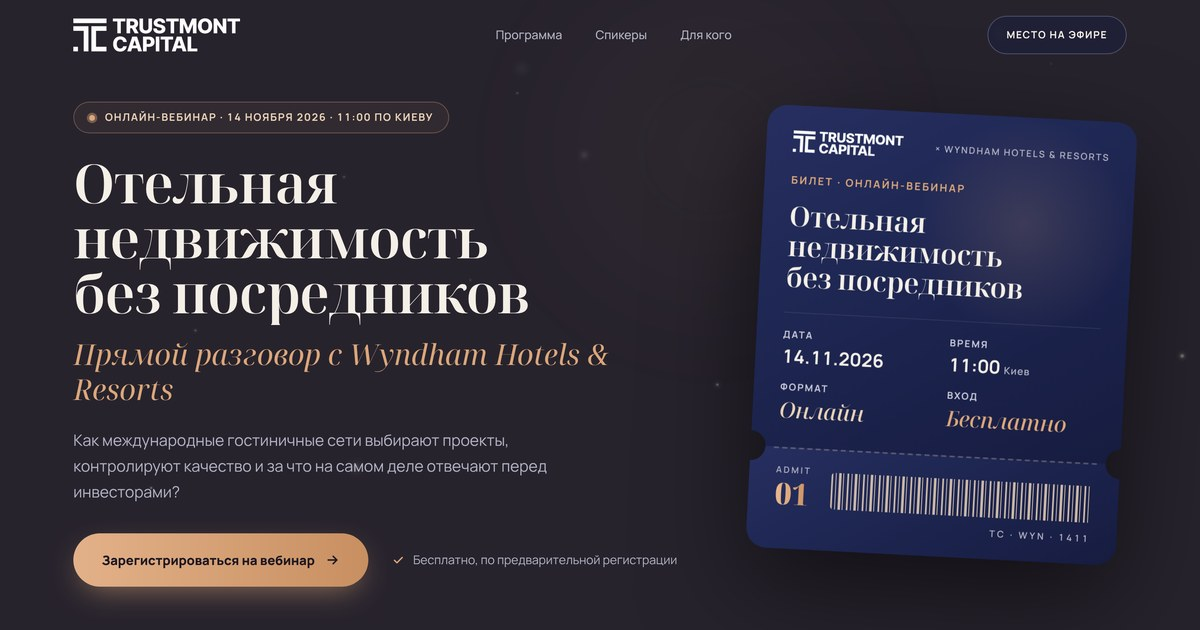
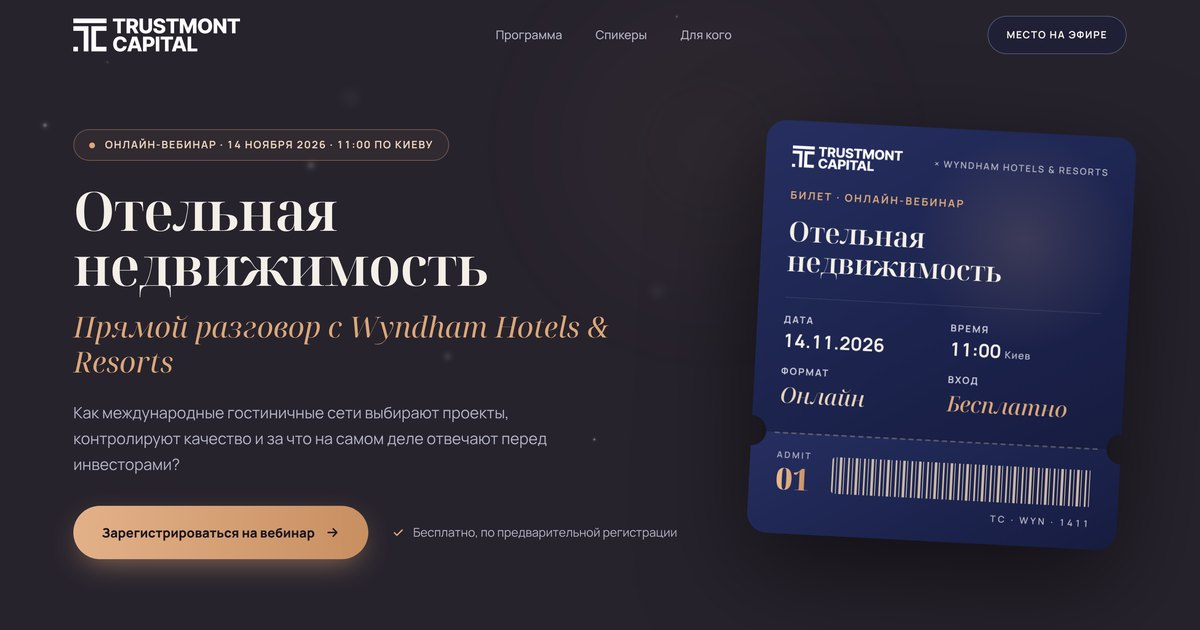
Drop 'без посредников' from the headline, ticket, CRM lead title and link preview image
Claude-Session: https://claude.ai/code/session_01V7UVysqTkuwp3RQHsRsado

diff --git a/index.html b/index.html
@@ -662,7 +662,7 @@ body{overflow-x:clip}
     <div class="wrap hero2-grid">
       <div class="hero2-copy">
         <p class="hero2-tag"><span class="dot" aria-hidden="true"></span>Онлайн-вебинар · 14 ноября 2026 · 11:00 по Киеву</p>
-        <h1 id="h1"><span class="w"><span style="--i:0">Отельная</span></span> <span class="w"><span style="--i:1">недвижимость</span></span> <br class="d-br"><span class="w"><span style="--i:2">без</span></span> <span class="w"><span style="--i:3">посредников</span></span></h1>
+        <h1 id="h1"><span class="w"><span style="--i:0">Отельная</span></span> <span class="w"><span style="--i:1">недвижимость</span></span></h1>
         <p class="hero2-sub">Прямой разговор с Wyndham Hotels &amp; Resorts</p>
         <p class="hero2-lead">Как международные гостиничные сети выбирают проекты, контролируют качество и за что на самом деле отвечают перед инвесторами?</p>
         <div class="hero2-cta">
@@ -679,7 +679,7 @@ body{overflow-x:clip}
               <span class="tk-x">× Wyndham Hotels &amp; Resorts</span>
             </div>
             <p class="tk-kind">Билет · Онлайн-вебинар</p>
-            <p class="tk-title">Отельная недвижимость без&nbsp;посредников</p>
+            <p class="tk-title">Отельная недвижимость</p>
             <dl class="tk-grid">
               <div><dt>Дата</dt><dd>14.11.2026</dd></div>
               <div><dt>Время</dt><dd>11:00 <small>Киев</small></dd></div>

diff --git a/server/lead.php b/server/lead.php
@@ -80,7 +80,7 @@ if (isset($res['bordee']) && $ok($res['bordee'])) {
 /* 2. CRM (Uspacy lead processor) */
 $crm_url = $cfg['crm_url'] ?? 'https://rubicon.tips/uspacy/customers/pro_part_real_estate/leads_processor/leads_processor.php';
 $res['crm'] = post_json($crm_url, array_merge([
-  'title'      => '[Webinar] Отельная недвижимость без посредников: ' . $name,
+  'title'      => '[Webinar] Отельная недвижимость: ' . $name,
   'first_name' => $name,
   'phone'      => $phone,
   'email'      => $email,
